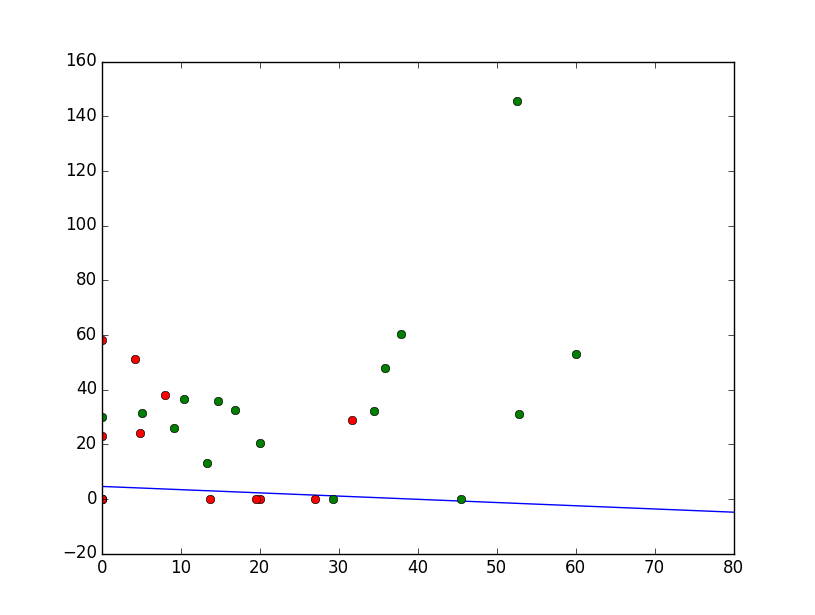
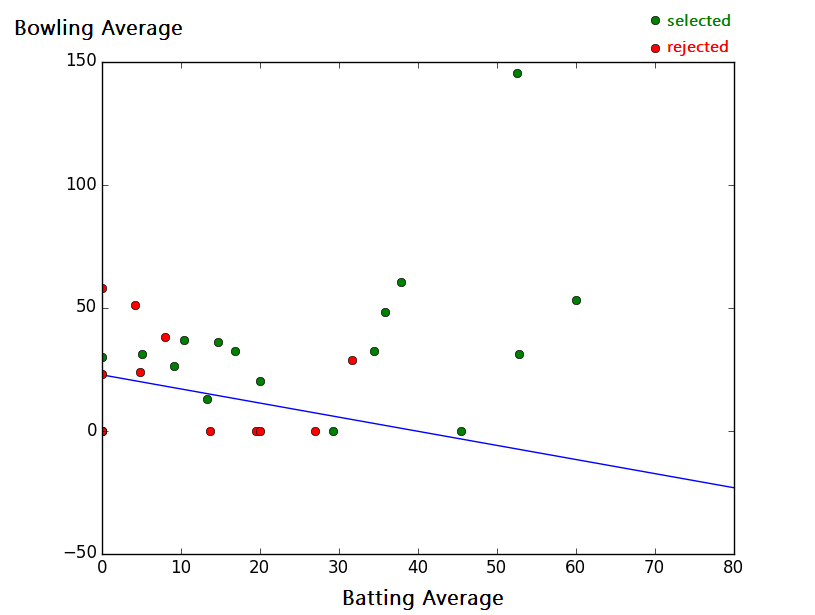
cricket player selector pla

diff --git a/CricketSelectorPerceptron.py b/CricketSelectorPerceptron.py
@@ -7,6 +7,7 @@ fd = open('./data/cricket.csv')
 data = [row.split(',') for row in fd.read().split('\n')]
 data.pop()
 header,data = data[0],data[1:]
+random.shuffle(data)
 fd.close()
 
 selected_points = []
@@ -34,7 +35,7 @@ def sign(a):
 #training phase
 def train():
     global W
-    for i in range(N):
+    for i in range(20):
         x = [1]+list(data[i][1:3])
         y = data[i][3]
         if sign(W[0]*x[0] + W[1]*x[1] + W[2]*x[2]) != y:
@@ -43,7 +44,7 @@ def train():
 
 def test():
     global miss
-    for i in range(N):
+    for i in range(20,30):
         x = [1]+list(data[i][1:3])
         y = data[i][3]
         if sign(W[0]*x[0] + W[1]*x[1] + W[2]*x[2]) != y: miss+=1
@@ -55,7 +56,7 @@ x1 = (80, m*10+c)
 x2 = (0, m*-10+c)
 
 test()
-accuracy = (N-miss)*100/N
+accuracy = (10-miss)*100/10
 print('accuracy: ',accuracy,'%')
 
 selected_points = zip(*selected_points)
